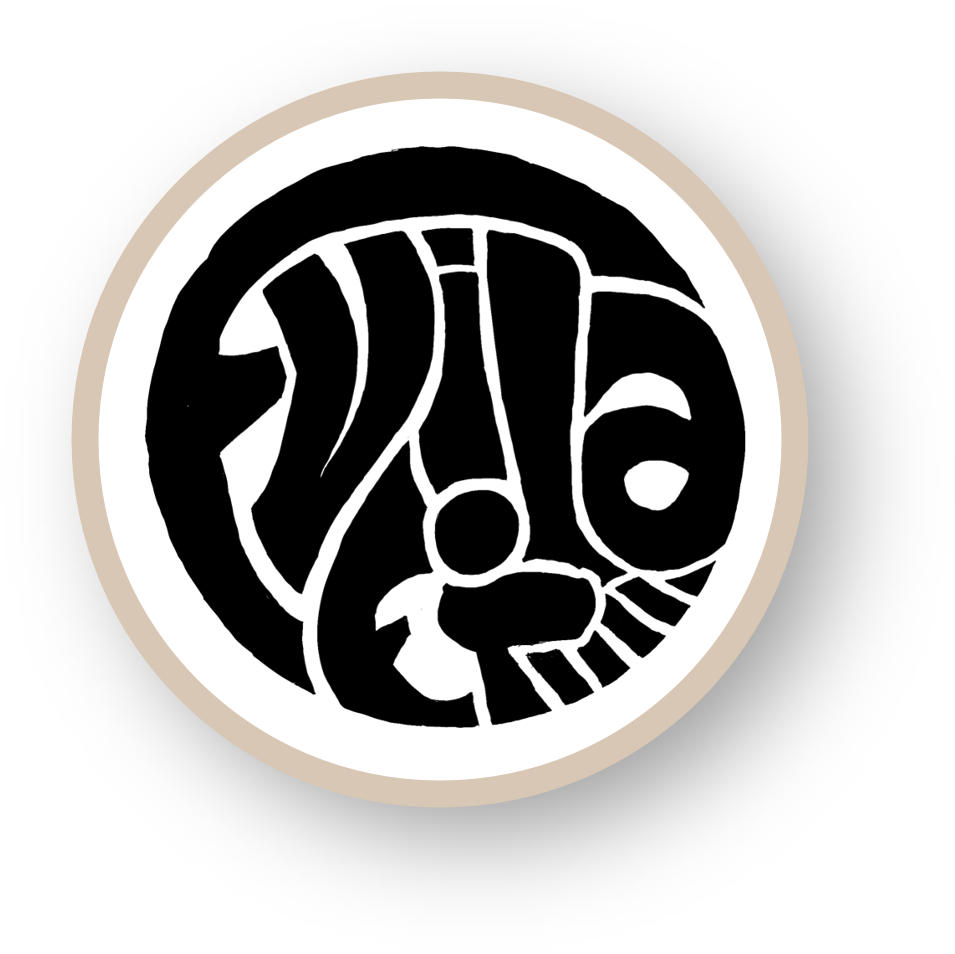
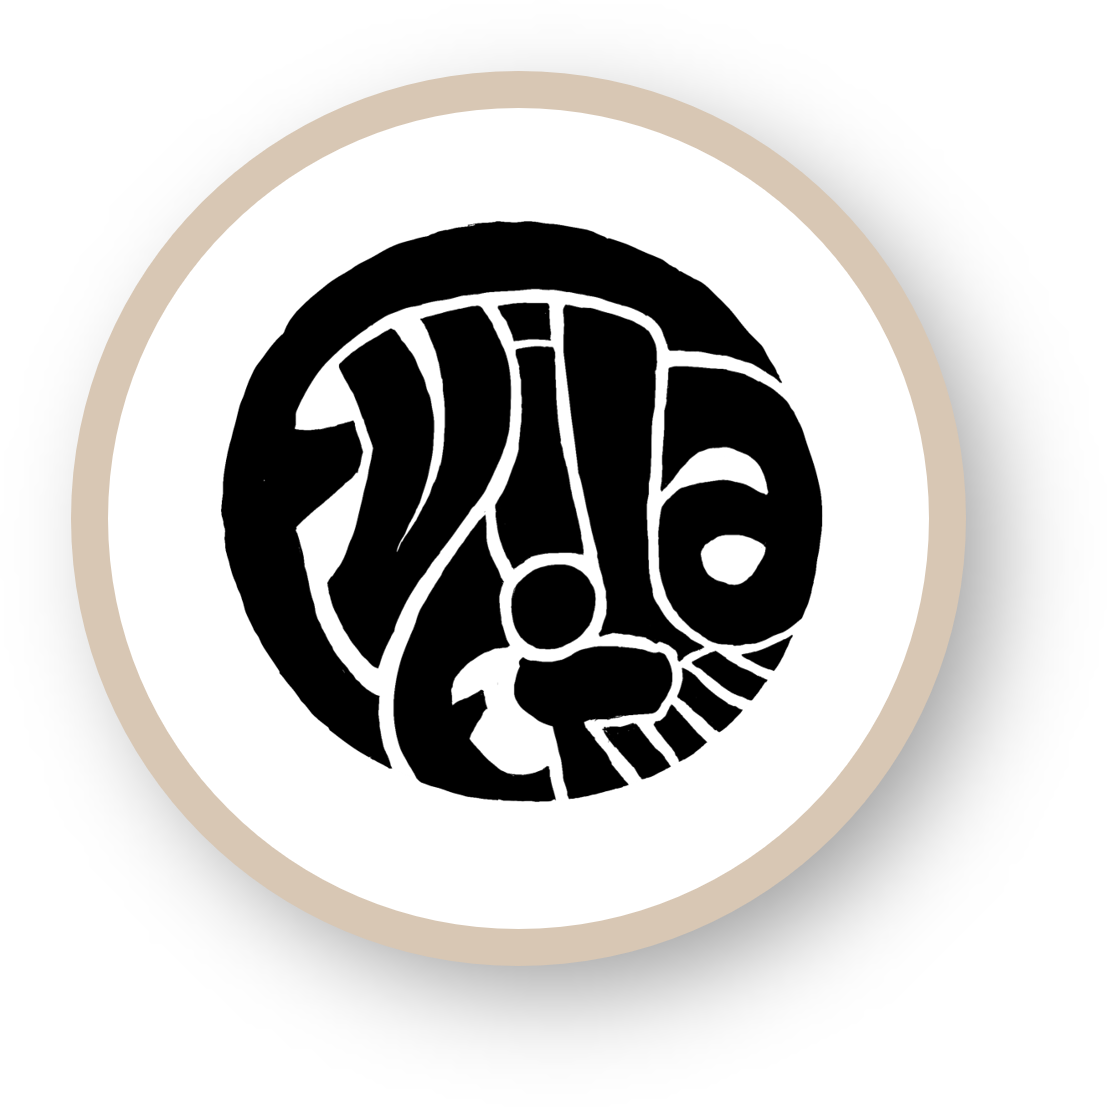
frames look good!

Changed region(s): [[0.0607, 0.0608, 0.8806, 0.8816]]

diff --git a/style.css b/style.css
@@ -17,6 +17,25 @@ body {
   font-family: sans-serif;
 }
 
+.color1 {
+  background-color: #D5F5EF;
+}
+.color2 {
+  background-color: #D5D7F5;
+}
+.color3 {
+  background-color: #F5D5F0;
+}
+.color4 {
+  background-color: #E1F6D4;
+}
+.color5 {
+  background-color: #F8E2D2;
+}
+.color6 {
+  background-color: #F4F6D4;
+}
+
 .logo_item img {
   width: 40%;
 }
@@ -47,7 +66,7 @@ justify-content: center;
 }
 
 .logo_item_simple img {
-  width: 44%;
+  width: 55%;
   
 }
 
@@ -105,7 +124,7 @@ padding-right: 100px;
 
 .grid-sizer,
 .grid-item {
-  width: 400px;
+  width: 200px;
 }
 
 .grid {
@@ -259,8 +278,8 @@ div.main_image p.description {
 
 .home_container {
 	position: absolute;
-	top: 20vh;
-	height:60vh;
+	top: 5vh;
+	height:80vh;
 	left: 20vw;
 	width: 60vw;
 
@@ -270,25 +289,25 @@ div.main_image p.description {
 }
 
 
-
 .home_item {
-	flex-grow : 1;
-	/* border: 2px solid #000; */
-
-	height: calc(50% - 20px);
-	width: calc(33% - 40px);
-	margin: 5px;
-    background-size: cover;
-    background-color: #DDDDDD;
-    border-radius: 10px;
-    cursor: pointer;
-    background-position: center;
-  
-    
+padding-top:30px; padding-bottom:30px;
+padding-left:10px; padding-right:10px;
+display: flex;
+align-items: center;
+justify-content: center;
 }
 
 .home_item > .inner {
-  padding-top: 30px; width: 100%; height: 100%
+    margin:10%;
+    text-align: center;
+    display: flex;
+    align-items: center;
+    justify-content: center;
+    height:100%;
+  ;}
+
+  .home_item > .inner > img.category {
+    width:60%;
   ;}
 
 .home_item > .inner > * {
@@ -310,6 +329,7 @@ text-align: center;}
     /* background-color: #F00; /* red */
 			height: calc(100% - 20px);
 	width: calc(20% - 25px);
+  
   }
 	.home_container {
 		left: 5vw;
@@ -321,20 +341,21 @@ text-align: center;}
 @media (max-aspect-ratio:2) {
   .home_item {
     /* background-color: #FF8800; /* orange */
-			height: calc(50% - 10px);
-	width: calc(33% - 25px);
+			height: calc(40% - 30px);
+	width: calc(33% - 80px);
+  margin: 30px;
   }
 	.home_container {
-			left: 10vw;
-	width: 80vw;
+			left: 2vw;
+	width: 96vw;
 	}
 }
 
 @media (max-aspect-ratio:1) {
   .home_item {
     /* background-color: #DDD; /* gray */
-			height: calc(33% - 10px);
-	width: calc(50% - 25px);
+			height: calc(25% - 10px);
+	width: calc(50% - 60px);
   }
 }
 
@@ -347,22 +368,44 @@ text-align: center;}
 	width: calc(100% - 40px);
   }
 		.home_container {
-			top: 5vh;
+			top: 0vh;
 	height: 90vh;
 			left:25%;
 			width: 50%;
 	}
+  div.home_body > div.home_container .logo_item_simple {
+    margin-top: 0;
+    margin-bottom: 0;
+    padding-top: 0;
+    padding-bottom: 0;
+  }
+  .logo_item_simple img {
+    width: 100%;
+  }
 }
 
+
+
+
 @media (max-aspect-ratio: 1/3) {
+  div.home_body > div.home_container .logo_item_simple {
+    margin-top: 0;
+    margin-bottom: 0;
+    padding-top: 0;
+    padding-bottom: 0;
+  }
+
   .home_item {
   }
 		.home_container {
-			top: 5vh;
+			top: 0vh;
 	height: 90vh;
 			left:20%;
 			width: 60%;
 	}
+  .logo_item_simple img {
+    width: 100%;
+  }
 }
 
 
@@ -460,8 +503,13 @@ div.ascendoor-wrapper, div.ascendoor-page {
     margin-right: auto;
 	}
 	
-	.shadow {
-	 box-shadow: 5px 5px 5px #555555; }
+	.outer_inner_shadow {
+    box-shadow: rgba(0, 0, 0, 0.30) -2px 10px 25px -1px , rgba(0, 0, 0, 0.20) -2px 4px 10px -1px inset;
+  }
+
+  .inner_shadow {
+    box-shadow: rgba(0, 0, 0, 0.20) -2px 4px 10px -1px inset;
+  }
 	
 	div.hor_align{
 		display: block;
@@ -1238,11 +1286,11 @@ clear:both;
     display:none;
 }
 /* for more, click here: http://www.debray-jerome.fr/outils/Generateur-de-box-shadow-css3.html */
--moz-box-shadow: 3px 3px 5px 0px #9b9b9b;
+/* -moz-box-shadow: 3px 3px 5px 0px #9b9b9b;
 -webkit-box-shadow: 3px 3px 5px 0px #9b9b9b;
 -o-box-shadow: 3px 3px 5px 0px #9b9b9b;
 box-shadow: 3px 3px 5px 0px #9b9b9b;
-filter:progid:DXImageTransform.Microsoft.Shadow(color=#9b9b9b, Direction=135, Strength=5);
+filter:progid:DXImageTransform.Microsoft.Shadow(color=#9b9b9b, Direction=135, Strength=5); */
 
 /* slide-in start (from chatgpt) */
 slide-in {

diff --git a/front-page.php b/front-page.php
@@ -14,19 +14,31 @@
 	<div class=" home_item logo_item_simple" >
 	<img src="<?php echo get_template_directory_uri() ?>/images/fvila_fr3.png)">
 	</div>
-	<div class="home_item item1" style = "background-image:url(<?php echo get_template_directory_uri() ?>/tree.png)">
-    <div class="inner">
-        <h2 class="home_comment" >dessins  </h2>
+	<div class="home_item item1 grid-item outer_inner_shadow" >
+		<div class="inner color1 inner_shadow">
+			<img class="category" src="<?php echo get_template_directory_uri() ?>/images/dessins.png)">
         </div>
 
 	</div>
-	<div class="home_item item2 grid-item">
+	<div class="home_item item2 grid-item outer_inner_shadow">
+	<div class="inner color2 inner_shadow">
+			<img class="category" src="<?php echo get_template_directory_uri() ?>/images/sculpture.png)">
+        </div>
 	</div>	
-	<div class="home_item item3" style = "background-image:url(<?php echo get_template_directory_uri() ?>/tree.png)">
+	<div class="home_item item3 grid-item outer_inner_shadow" >
+	<div class="inner color3 inner_shadow">
+			<img class="category" src="<?php echo get_template_directory_uri() ?>/images/numerique.png)">
+        </div>
 	</div>
-	<div class="home_item item4" style = "background-image:url(<?php echo get_template_directory_uri() ?>/tree.png)">
+	<div class="home_item item4 grid-item outer_inner_shadow" >
+	<div class="inner color4 inner_shadow">
+			<img class="category" src="<?php echo get_template_directory_uri() ?>/images/tableaux.png)">
+        </div>
 	</div>
-	<div class="home_item item5" style = "background-image:url(<?php echo get_template_directory_uri() ?>/tree.png)">
+	<div class="home_item item5 grid-item outer_inner_shadow" >
+	<div class="inner color5 inner_shadow">
+			<img class="category" src="<?php echo get_template_directory_uri() ?>/images/technique.png)">
+        </div>
 	</div>
 
 </div>

diff --git a/functions.php b/functions.php
@@ -126,6 +126,7 @@ add_action( 'init', 'cptui_register_my_taxes_artwork' );
 
 function my_enqueue_scripts() {
     wp_enqueue_media();
+	
 }
 add_action( 'wp_enqueue_scripts', 'my_enqueue_scripts' );
 
@@ -163,6 +164,9 @@ function my_theme_enqueue_styles() {
 	// EXPLANATION: parent-style comes from the local style.css 
 	// Template: parent-style
 	wp_enqueue_style( 'parent-style', get_stylesheet_directory_uri() .'/style.css' );
+	// from https://wordpress.stackexchange.com/questions/136971/modify-the-wordpress-admin-bar-css
+	// avoid margin top of page
+	add_theme_support( 'admin-bar', array( 'callback' => '__return_false' ) );
 	
 }
 
